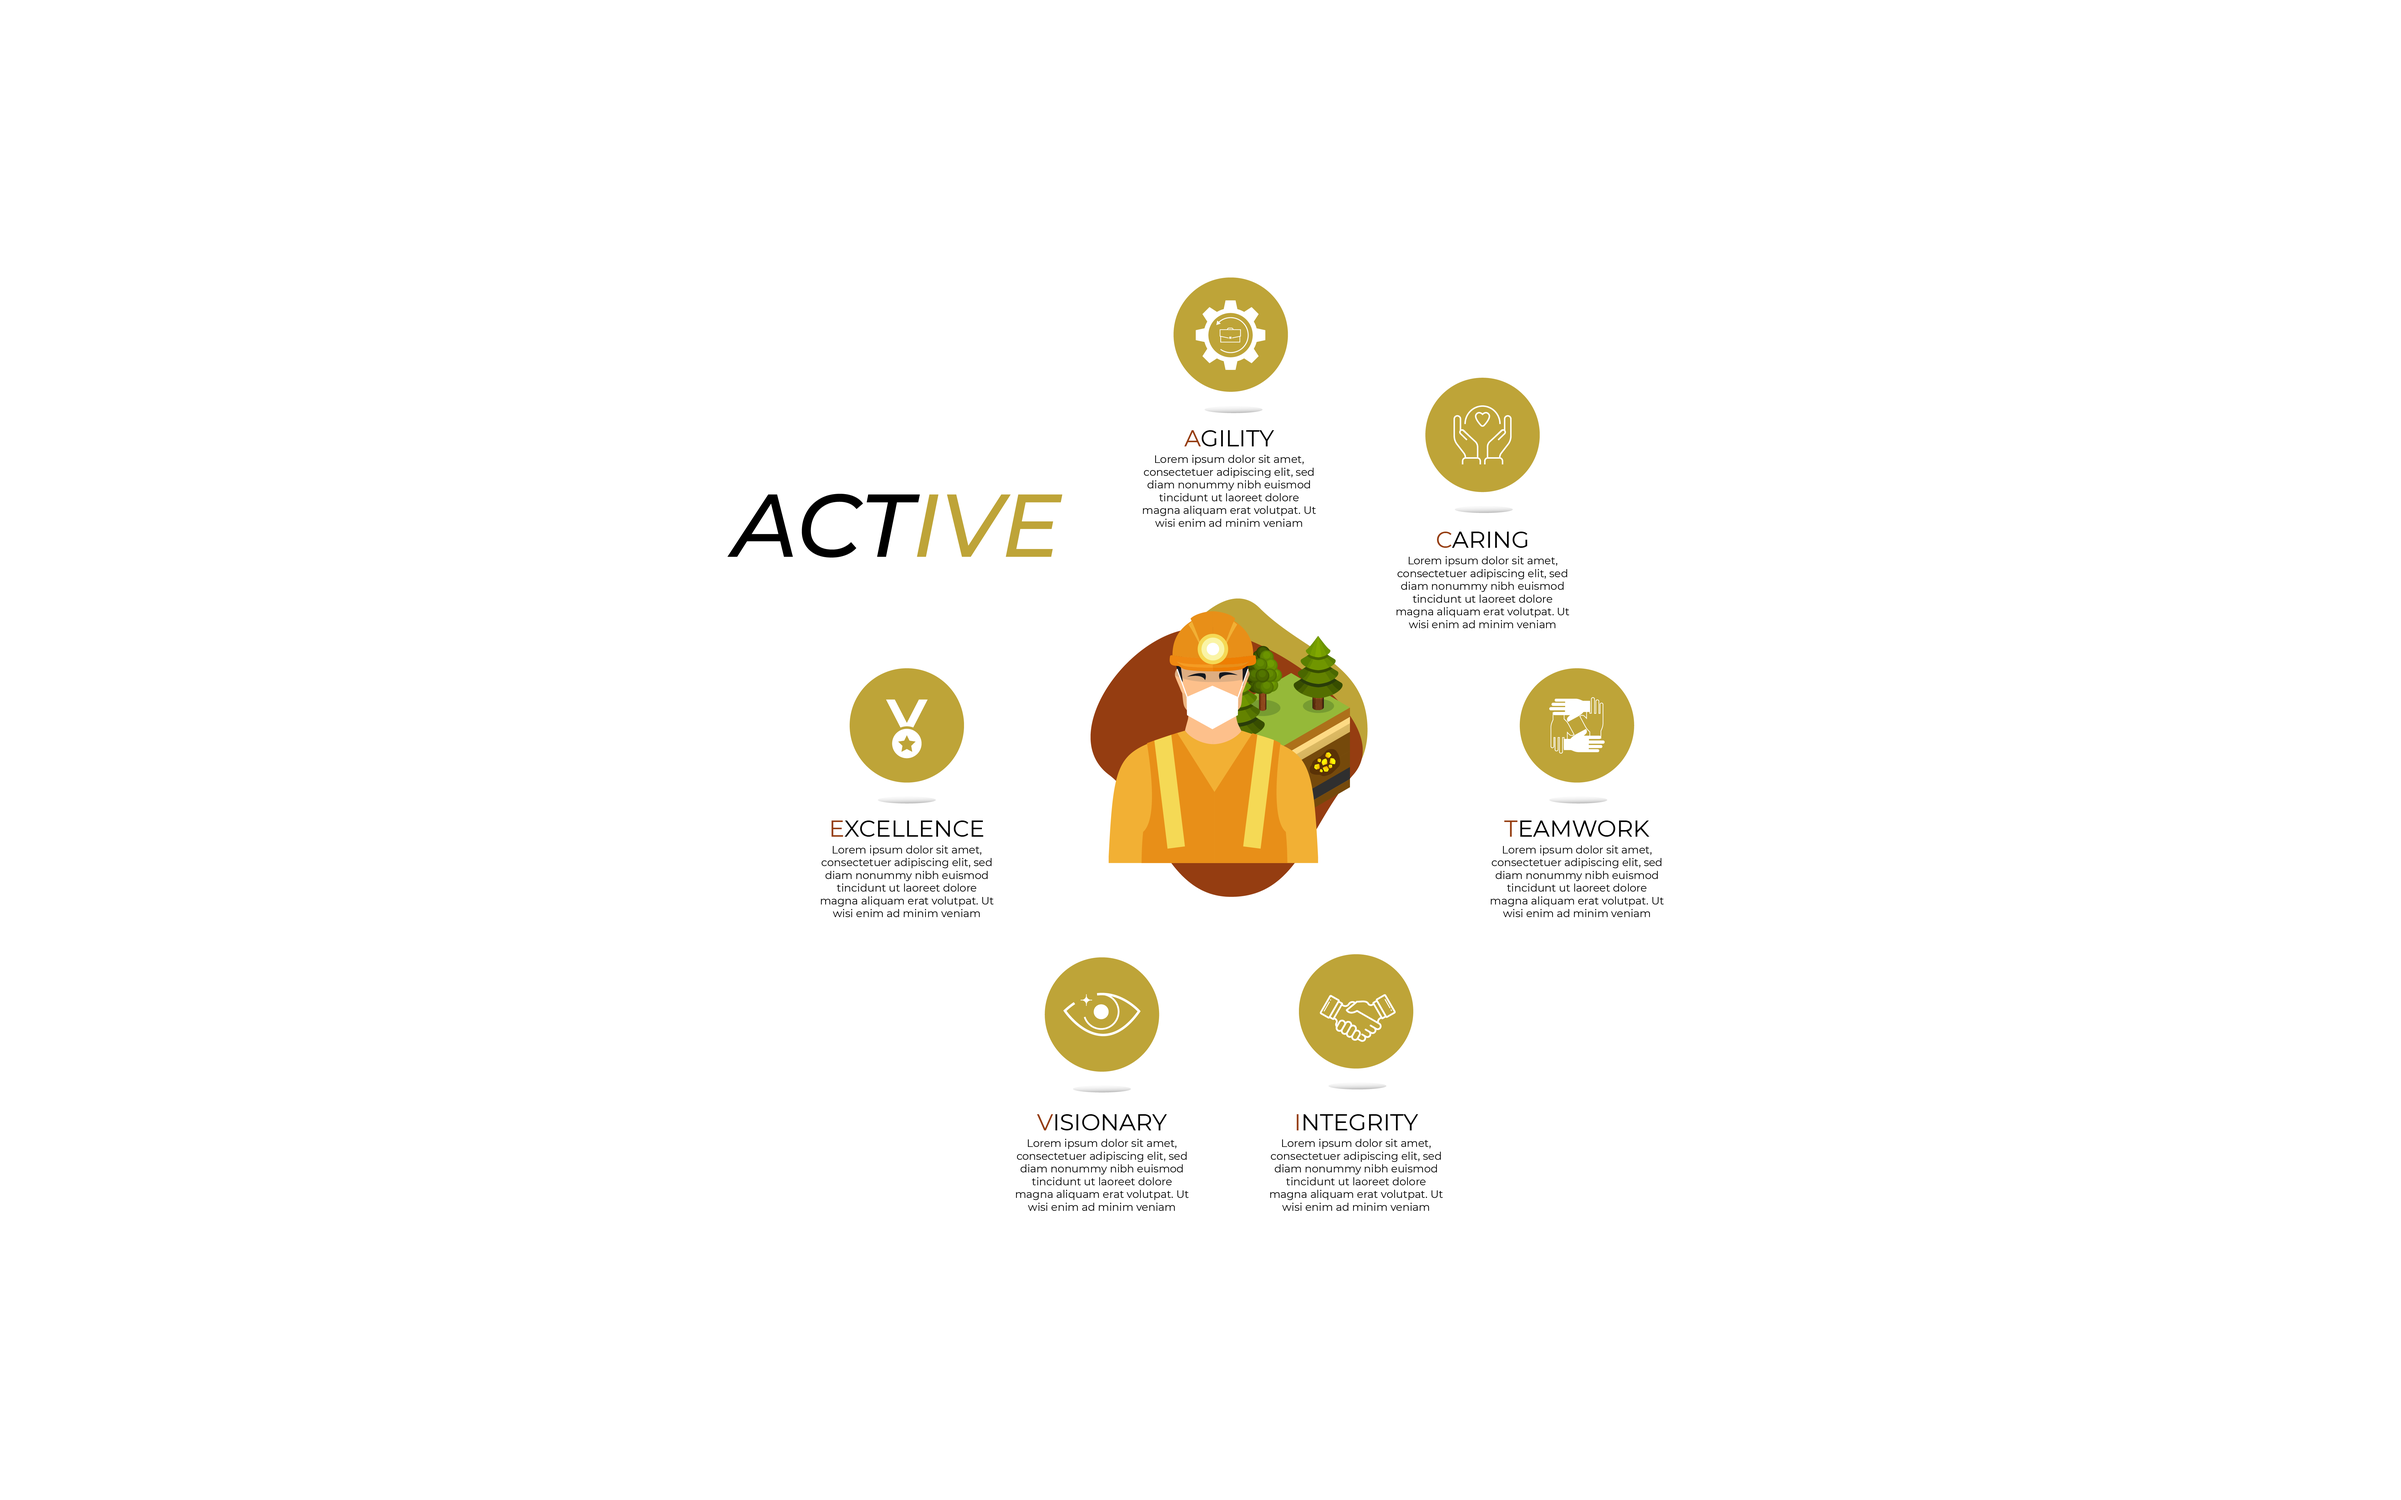
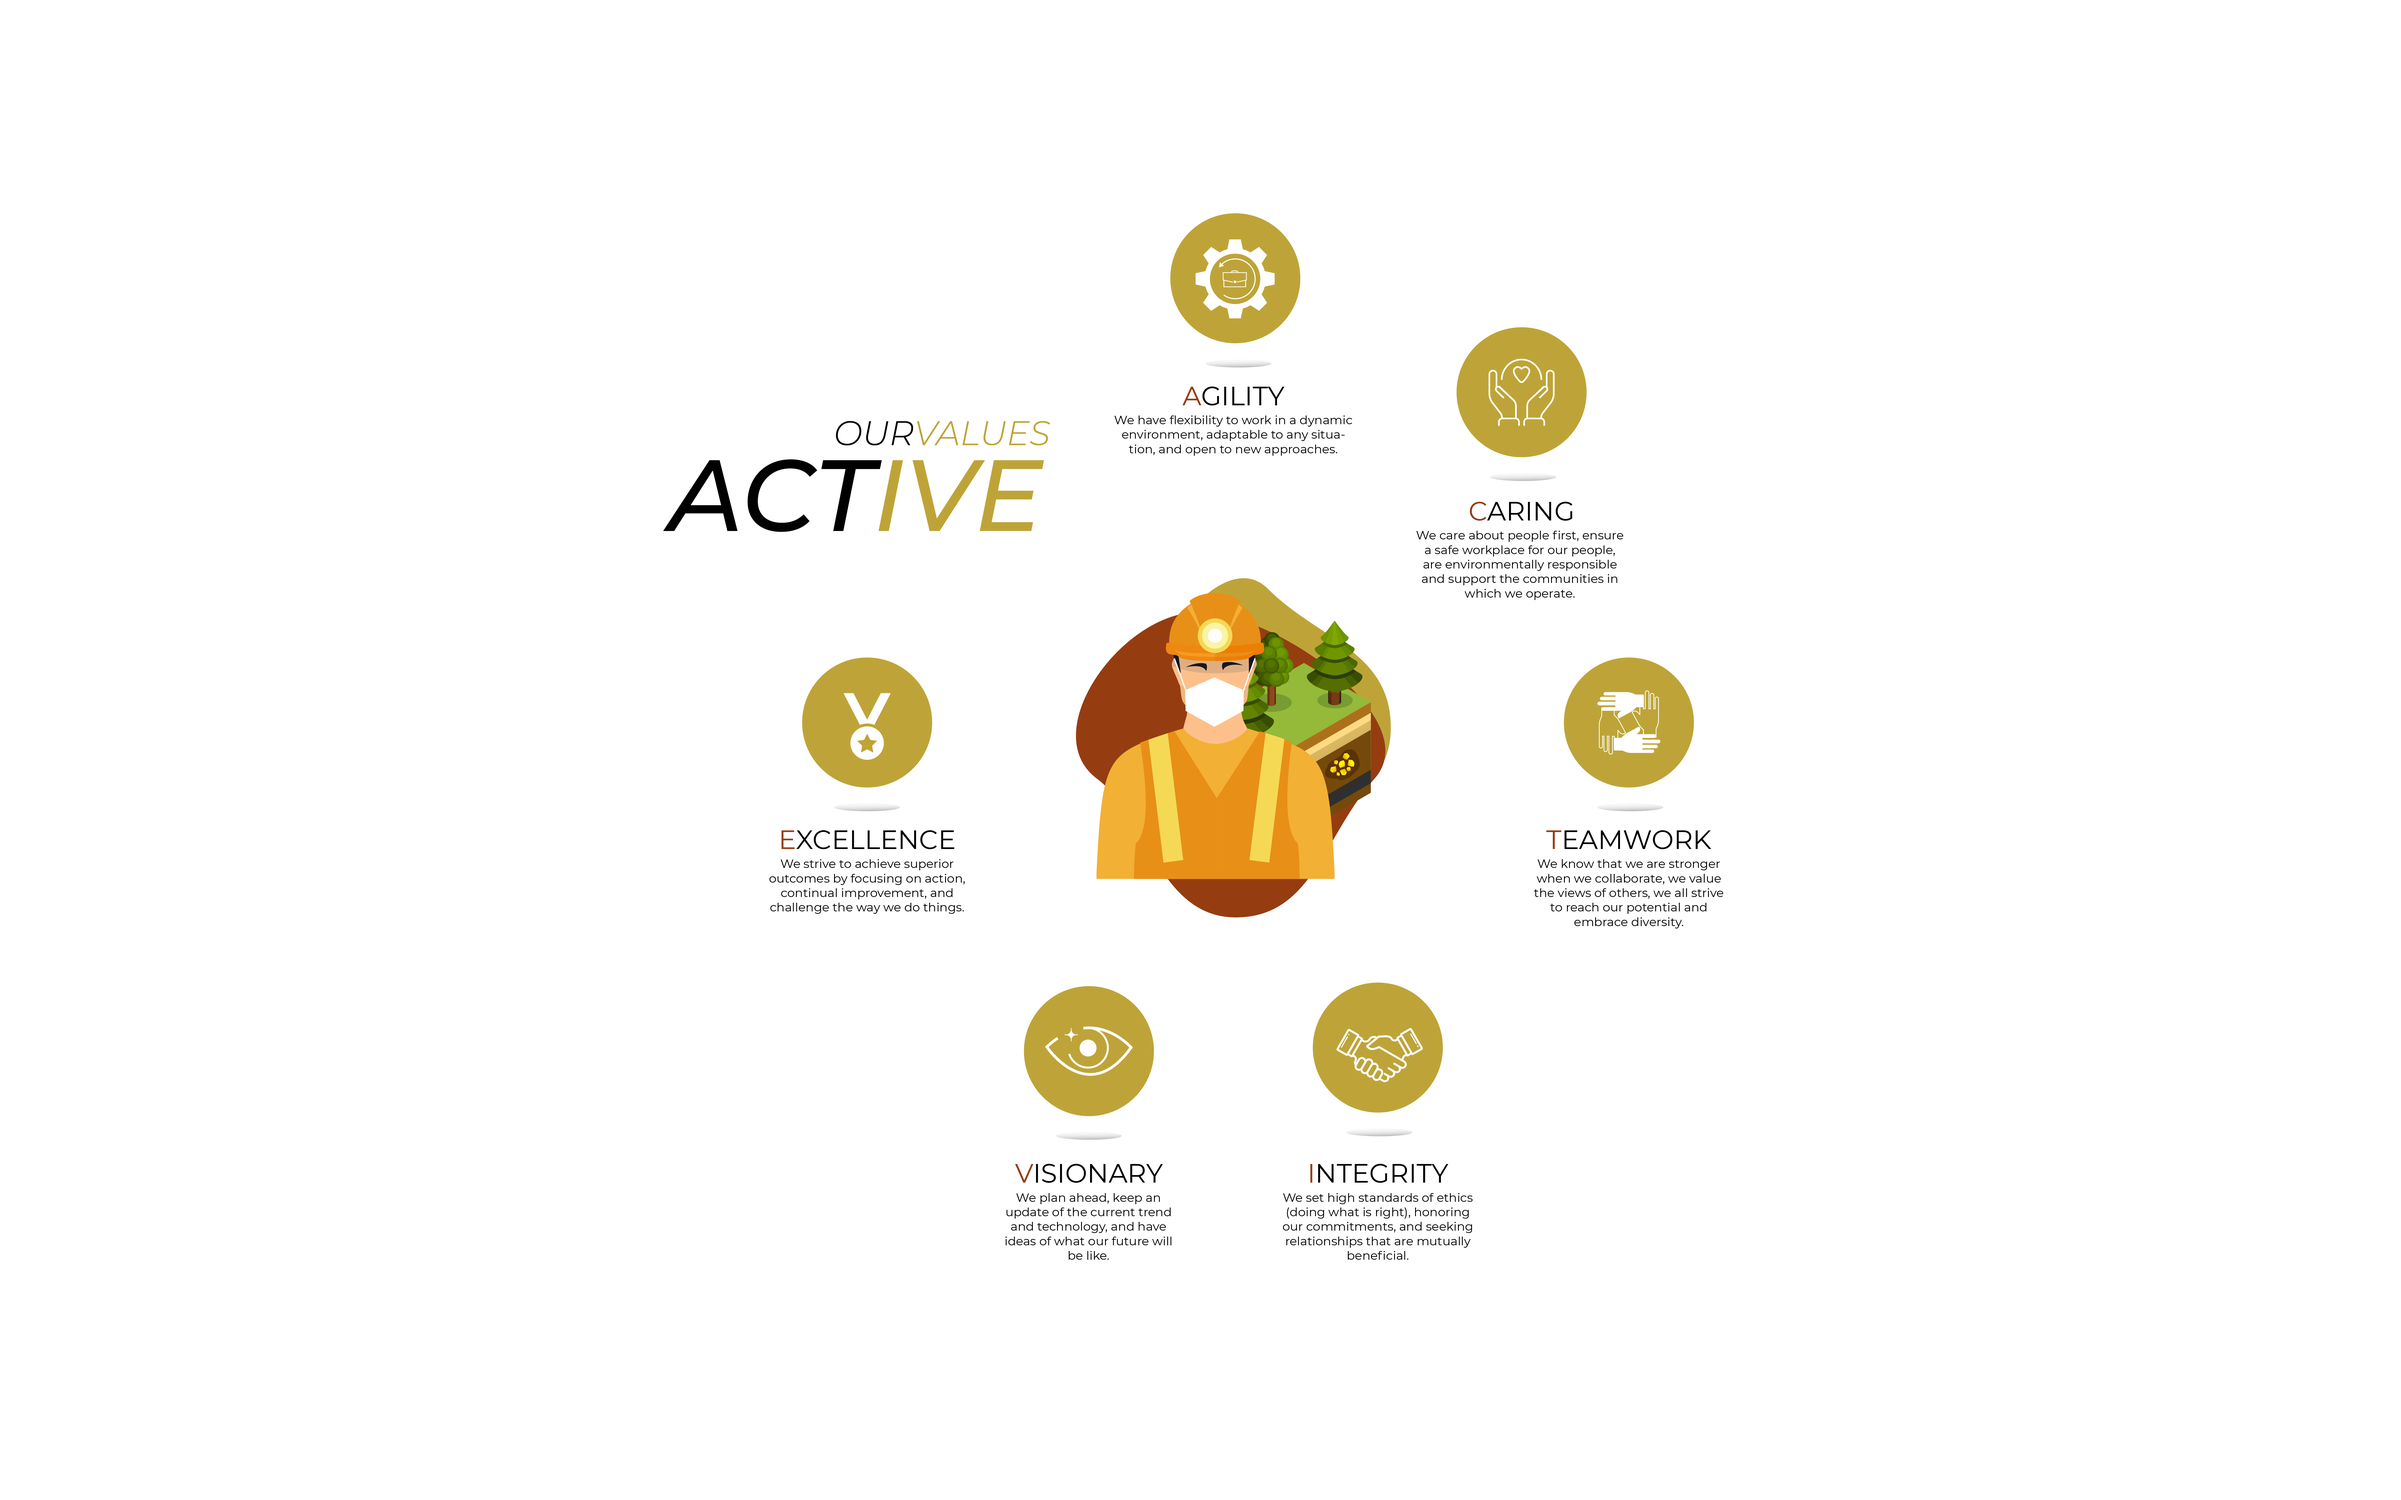
update final values home

diff --git a/index.html b/index.html
@@ -1189,8 +1189,8 @@
 					<div class="col-12" style="text-align: center">
 						<!-- <h1 style="color: #000; text-align: left;font-weight: 700;">Value</h1> -->
 						<img
-							src="images/main/Final Value-01 (1).png"
-							data-rjs="images/main/Final Value-01 (1).png"
+							src="images/main/Final Value-01.png"
+							data-rjs="images/main/Final Value-01.png"
 							alt=""
 							style="cursor: zoom-in"
 							class="zoom"
